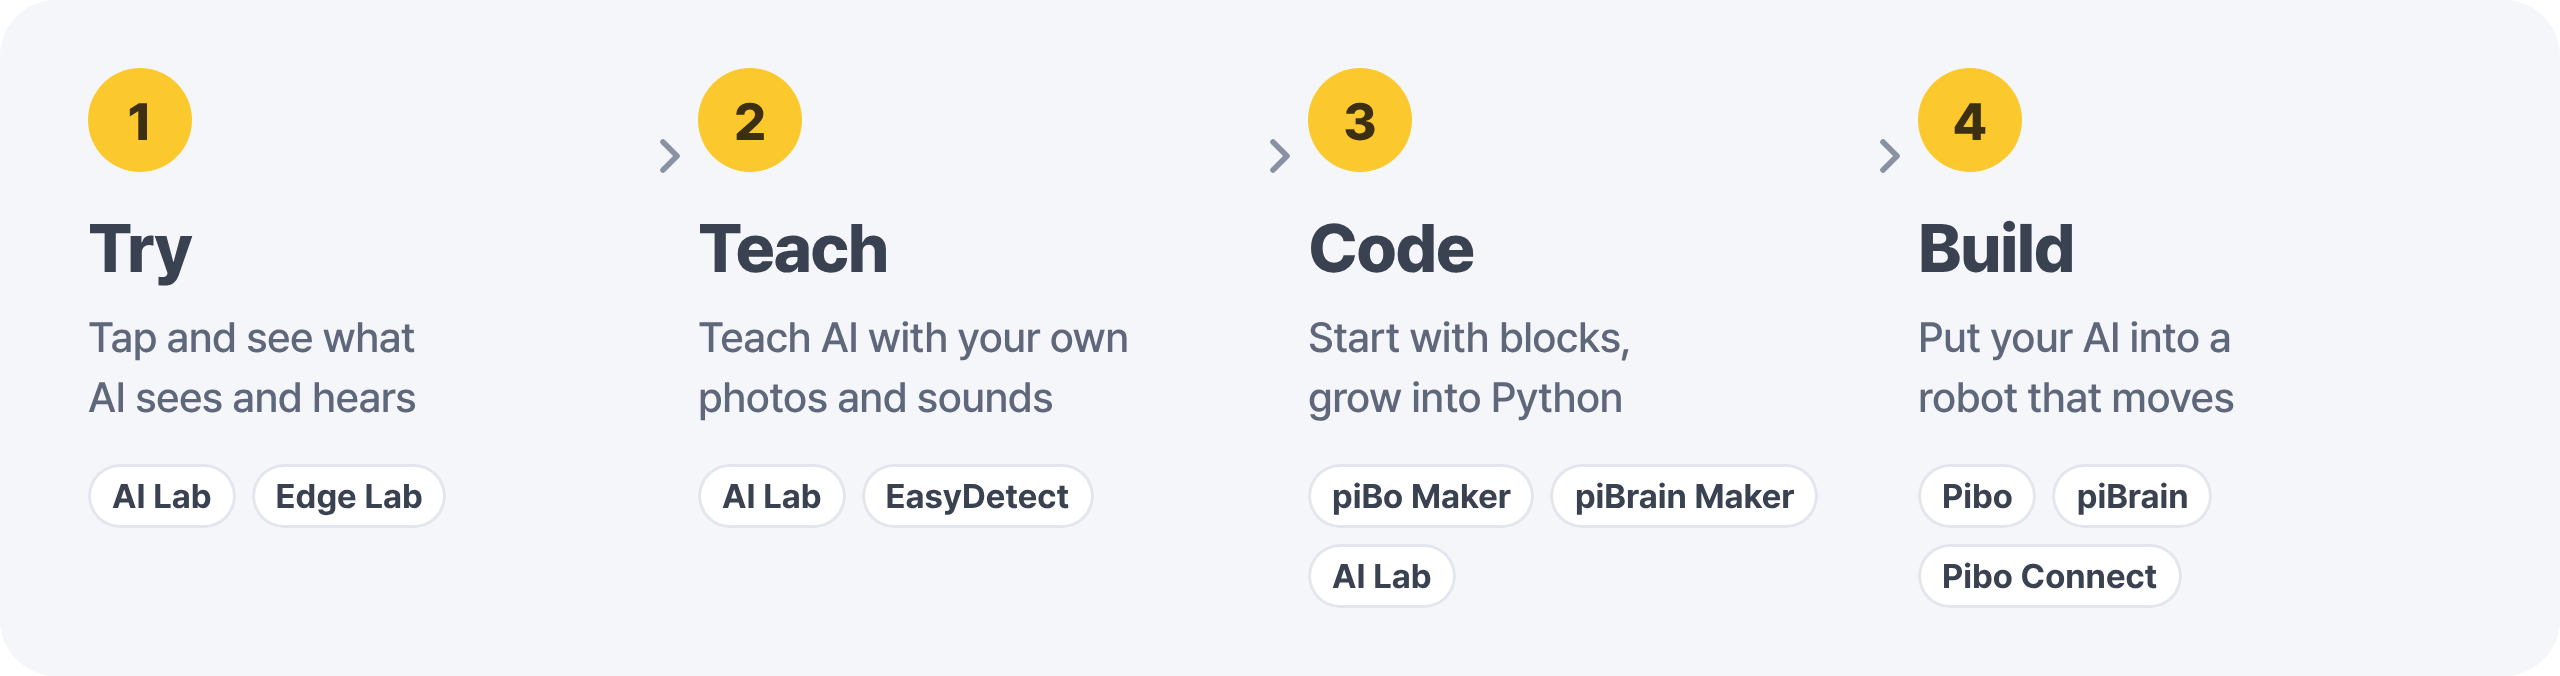
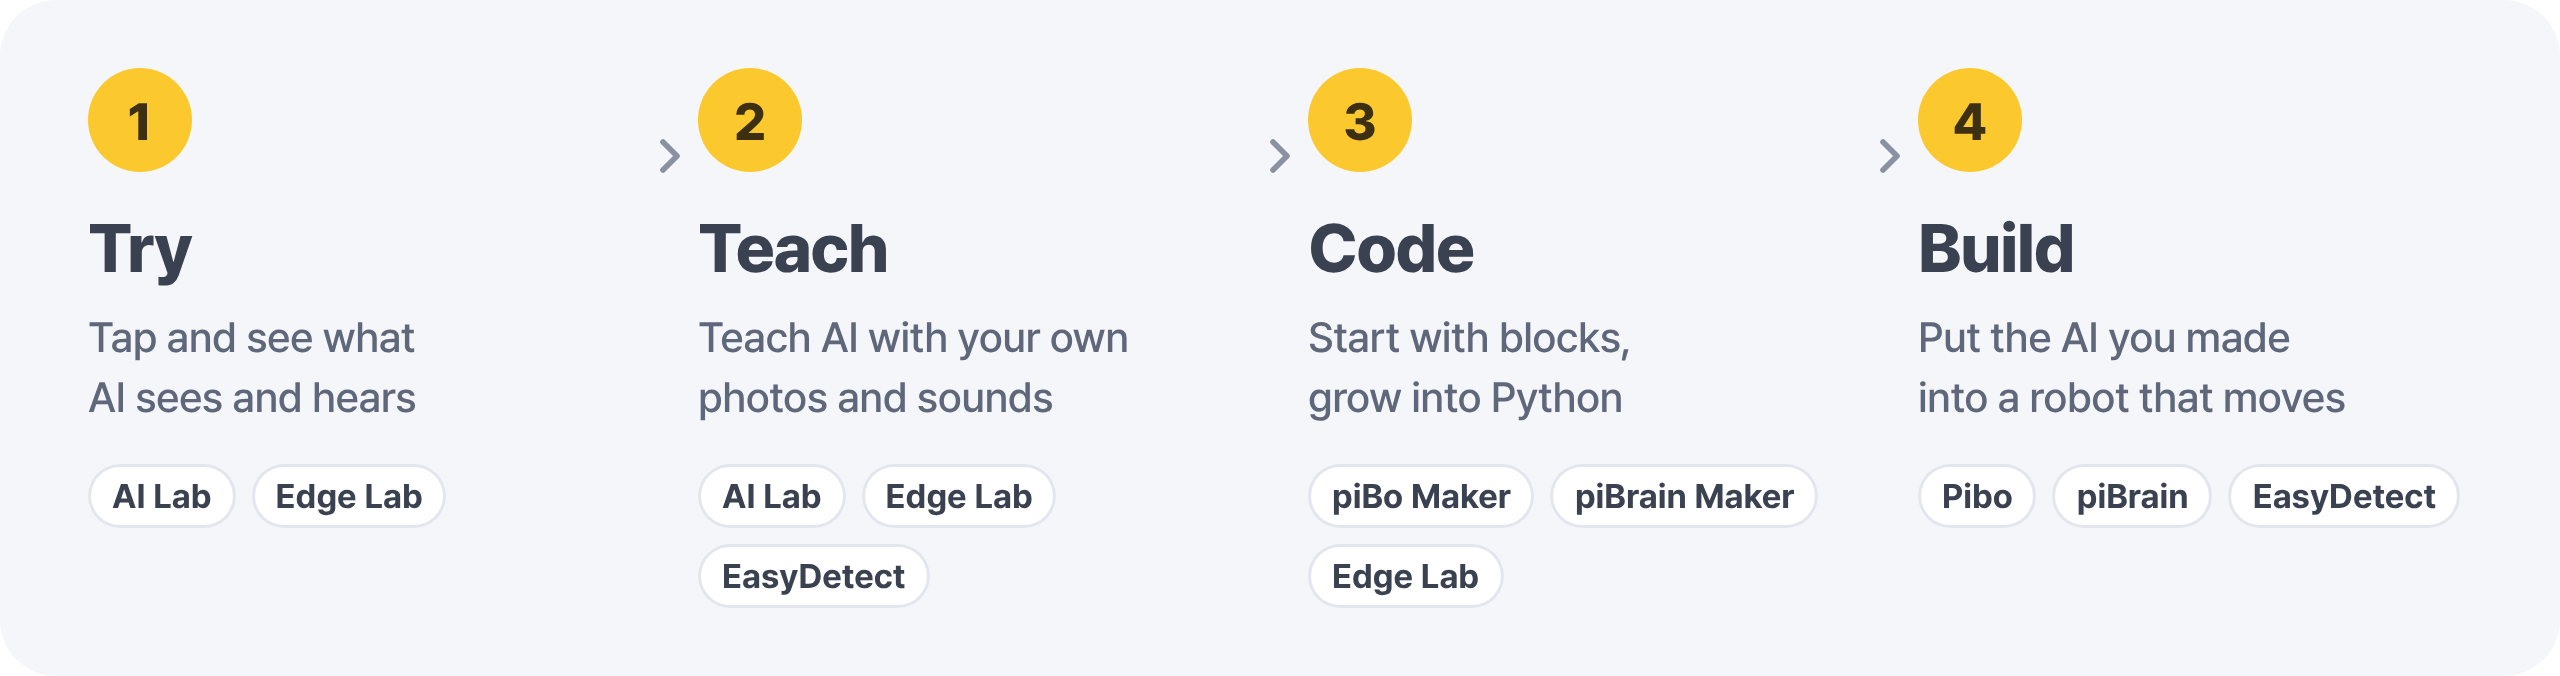
README: 제품을 준비물 기준으로 (로봇 / 노트북 / 웹 / 노트북→로봇)
- 라인업 이미지: 파이보·파이브레인, Edge Lab(노트북만), AI Lab(웹만), EasyDetect(사물 인식·분할 학습 → 로봇 적용)
- 제품별 섹션: 화면 + 설명·링크 나란히 (Edge Lab, AI Lab, EasyDetect)
- 학습 흐름 4단계에 쓰는 제품 다시 맞춤, 쓰지 않는 카드 이미지 삭제

Claude-Session: https://claude.ai/code/session_0189PbxufaKqbAwDGNT7CFCK

diff --git a/README.md b/README.md
@@ -20,13 +20,17 @@
 
 <img src="data/why-ko.png" width="100%" alt="인터넷이 끊겨도 수업은 계속 · 블록에서 파이썬까지 한 흐름 · 로봇이 없어도 오늘 시작 · 교실 전체를 한 번에">
 
+## 교실 준비물에 맞춰 고르세요
+
+<img src="data/lineup-ko.png" width="100%" alt="AI 로봇: 파이보·파이브레인 · 노트북만: Edge Lab · 웹 브라우저만: AI Lab · 노트북 → 로봇: EasyDetect">
+
 ## 이렇게 배웁니다
 
 <img src="data/flow-ko.png" width="100%" alt="1 체험 → 2 가르치기 → 3 코딩 → 4 로봇으로 완성">
 
-## AI 로봇
+## 파이보 · 파이브레인 — 로봇으로 배우는 AI
 
-움직이는 휴머노이드 **파이보**, 화면과 버튼이 달린 AI 보드 **파이브레인**. 수업에서 배운 AI를 로봇에 실어 직접 움직여 봅니다.
+움직이는 휴머노이드 **파이보**, 화면과 버튼이 달린 AI 보드 **파이브레인**. 수업에서 만든 AI를 로봇에 실어 직접 움직여 봅니다.
 
 <p align="center">
   <img src="data/card-pibo.png" width="49%" alt="파이보 (Pibo) — 움직이는 휴머노이드 AI 로봇">
@@ -45,40 +49,73 @@
   <img src="data/ide1.png" width="32%"> <img src="data/ide2.png" width="32%"> <img src="data/ide3.png" width="32%">
 </p>
 
-## AI 교육 소프트웨어
-
-로봇이 없어도, 인터넷이 없어도 AI를 배웁니다. 찍은 사진과 소리는 기기 밖으로 나가지 않습니다.
-
-<table>
-  <tr>
-    <td width="33%" valign="top" align="center">
-      <img src="data/sw-ailab.png" width="100%" alt="AI Lab"><br>
-      <a href="https://themakerrobot.github.io/ai-lab/"><b>바로 쓰기</b></a> · <a href="https://themakerrobot.github.io/ai-lab/guide/">가이드</a>
-    </td>
-    <td width="33%" valign="top" align="center">
-      <img src="data/sw-edgelab.png" width="100%" alt="Edge Lab"><br>
-      <a href="https://github.com/themakerrobot/edge-lab/releases/latest"><b>다운로드</b></a> · <a href="https://github.com/themakerrobot/edge-lab/releases">릴리스 노트</a> · <a href="https://github.com/themakerrobot/edge-lab/blob/main/docs/MANUAL.md">가이드</a>
-    </td>
-    <td width="33%" valign="top" align="center">
-      <img src="data/sw-easydetect.png" width="100%" alt="EasyDetect"><br>
-      <a href="https://github.com/themakerrobot/easydetect-lab/releases/latest"><b>다운로드</b></a> · <a href="https://github.com/themakerrobot/easydetect-lab/releases">릴리스 노트</a> · <a href="https://themakerrobot.github.io/easydetect-lab/">가이드</a> · <a href="https://themakerrobot.github.io/easydetect/try.html">웹 체험</a>
-    </td>
-  </tr>
-</table>
-
-## 로봇 수업을 돕는 소프트웨어
+### 로봇 수업을 돕는 소프트웨어
 
 수업 준비는 화면 속 파이보로, 수업 당일에는 교실의 로봇을 한 화면에서.
 
 <table>
   <tr>
     <td width="50%" valign="top" align="center">
-      <img src="data/sw-pibolab.png" width="100%" alt="Pibo Lab"><br>
+      <img src="data/sw-pibolab.png" width="100%" alt="pibolab"><br>
       <a href="https://pibo-lab.themaker.workers.dev/"><b>바로 쓰기</b></a>
     </td>
     <td width="50%" valign="top" align="center">
-      <img src="data/sw-piboconnect.png" width="100%" alt="Pibo Connect"><br>
+      <img src="data/sw-piboconnect.png" width="100%" alt="piboconnect"><br>
       <a href="https://github.com/themakerrobot/pibo-connect/releases/latest"><b>다운로드</b></a> · <a href="https://github.com/themakerrobot/pibo-connect/releases">릴리스 노트</a> · <a href="https://github.com/themakerrobot/pibo-connect#readme">가이드</a>
+    </td>
+  </tr>
+</table>
+
+## Edge Lab — 노트북 한 대로 하는 AI 수업
+
+<table>
+  <tr>
+    <td width="56%" valign="middle"><img src="data/feat-edgelab-ko.png" width="100%" alt="edgelab"></td>
+    <td width="44%" valign="middle">
+      <p>설치하고 나면 <b>인터넷 없이</b> 교실 노트북 안에서 모든 AI가 돌아갑니다.</p>
+      <ul>
+        <li><b>체험하기</b> — 얼굴·자세·손·사물·글자 등 AI 16가지</li>
+        <li><b>가르치기</b> — 내 사진과 소리로 직접 AI를 가르치기</li>
+        <li><b>코딩</b> — 블록과 파이썬으로 AI 부르기</li>
+        <li>Intel AI PC의 CPU·GPU·NPU로 실행, 계정·요금 없음</li>
+      </ul>
+      <p><a href="https://github.com/themakerrobot/edge-lab/releases/latest"><b>다운로드</b></a> · <a href="https://github.com/themakerrobot/edge-lab/releases">릴리스 노트</a> · <a href="https://github.com/themakerrobot/edge-lab/blob/main/docs/MANUAL.md">가이드</a></p>
+    </td>
+  </tr>
+</table>
+
+## AI Lab — 웹 브라우저만으로 하는 AI 교육
+
+<table>
+  <tr>
+    <td width="56%" valign="middle"><img src="data/feat-ailab-ko.png" width="100%" alt="ailab"></td>
+    <td width="44%" valign="middle">
+      <p><b>설치 없이</b> 링크만 열면 시작합니다. 사진과 소리는 기기 밖으로 나가지 않습니다.</p>
+      <ul>
+        <li><b>체험하기</b> — 손·얼굴·몸 인식, 소리 구분, 배경 바꾸기</li>
+        <li><b>가르치기</b> — 예시를 보여 주며 내 AI 만들기</li>
+        <li><b>스스로 배우기</b> — 점수로 배우는 청소 로봇·진화하는 생물</li>
+        <li><b>만들기</b> — 순서도 → 블록 → 파이썬으로 작품 완성</li>
+      </ul>
+      <p><a href="https://themakerrobot.github.io/ai-lab/"><b>바로 쓰기</b></a> · <a href="https://themakerrobot.github.io/ai-lab/guide/">가이드</a></p>
+    </td>
+  </tr>
+</table>
+
+## EasyDetect — 내 사진으로 만든 AI를 로봇에
+
+<table>
+  <tr>
+    <td width="56%" valign="middle"><img src="data/feat-easydetect-ko.png" width="100%" alt="easydetect"></td>
+    <td width="44%" valign="middle">
+      <p>노트북에서 <b>학습하고 시험한 뒤</b>, 파일 하나로 <b>파이보·파이브레인</b>에 옮겨 실행합니다.</p>
+      <ul>
+        <li><b>3가지 AI</b> — 사물 인식(상자) · 윤곽 분할 · 자세(키포인트)</li>
+        <li><b>학습</b> — 노트북 CPU로 사진 100~300장을 10~15분 안에</li>
+        <li><b>추론</b> — 사진·영상·웹캠으로 바로 시험</li>
+        <li><b>로봇에 적용</b> — ONNX 파일 하나로 파이보·파이브레인에서 실행</li>
+      </ul>
+      <p><a href="https://github.com/themakerrobot/easydetect-lab/releases/latest"><b>다운로드</b></a> · <a href="https://github.com/themakerrobot/easydetect-lab/releases">릴리스 노트</a> · <a href="https://themakerrobot.github.io/easydetect-lab/">가이드</a> · <a href="https://themakerrobot.github.io/easydetect/try.html">웹 체험</a></p>
     </td>
   </tr>
 </table>
@@ -93,8 +130,6 @@
 </p>
 
 ## 파이보·파이브레인 시작하기
-
-### 내 기기에 맞는 문서와 예제
 
 파이보·파이브레인은 **운영체제(OS) 버전마다 쓸 수 있는 기능과 블록이 다릅니다.** 기기와 같은 버전의 문서와 예제를 보세요.
 
@@ -125,11 +160,15 @@ OS 설치 이미지와 사용 가이드는 [공유 폴더](https://circulusworks
 
 <img src="data/why-en.png" width="100%" alt="Class goes on, even offline · Blocks to Python, one path · Start today, no robot needed · The whole class at once">
 
+### Pick what fits your classroom
+
+<img src="data/lineup-en.png" width="100%" alt="AI robots: Pibo · piBrain · A laptop: Edge Lab · A web browser: AI Lab · Laptop → robot: EasyDetect">
+
 ### How students learn
 
 <img src="data/flow-en.png" width="100%" alt="1 Try → 2 Teach → 3 Code → 4 Build">
 
-### AI robots
+### Pibo · piBrain — learn AI with robots
 
 **Pibo**, a humanoid robot that moves, and **piBrain**, an AI board with a screen and buttons. Students put the AI they made onto the robot and watch it move.
 
@@ -145,40 +184,73 @@ Pibo comes with **piBo Maker** and piBrain with **piBrain Maker**. Open it from 
   <img src="data/ide1.png" width="32%"> <img src="data/ide2.png" width="32%"> <img src="data/ide3.png" width="32%">
 </p>
 
-### AI education software
-
-Learn AI without a robot, even without the internet. Photos and sounds never leave the device.
-
-<table>
-  <tr>
-    <td width="33%" valign="top" align="center">
-      <img src="data/sw-ailab-en.png" width="100%" alt="AI Lab"><br>
-      <a href="https://themakerrobot.github.io/ai-lab/"><b>Open</b></a> · <a href="https://themakerrobot.github.io/ai-lab/guide/">Guide</a>
-    </td>
-    <td width="33%" valign="top" align="center">
-      <img src="data/sw-edgelab-en.png" width="100%" alt="Edge Lab"><br>
-      <a href="https://github.com/themakerrobot/edge-lab/releases/latest"><b>Download</b></a> · <a href="https://github.com/themakerrobot/edge-lab/releases">Release notes</a> · <a href="https://github.com/themakerrobot/edge-lab/blob/main/docs/MANUAL.md#edge-lab-user-guide">Guide</a>
-    </td>
-    <td width="33%" valign="top" align="center">
-      <img src="data/sw-easydetect-en.png" width="100%" alt="EasyDetect"><br>
-      <a href="https://github.com/themakerrobot/easydetect-lab/releases/latest"><b>Download</b></a> · <a href="https://github.com/themakerrobot/easydetect-lab/releases">Release notes</a> · <a href="https://themakerrobot.github.io/easydetect-lab/">Guide</a> · <a href="https://themakerrobot.github.io/easydetect/try.html">Try on the web</a>
-    </td>
-  </tr>
-</table>
-
-### Software for robot classes
+#### Software for robot classes
 
 Prepare lessons with an on-screen Pibo, then run the whole classroom of robots from one screen.
 
 <table>
   <tr>
     <td width="50%" valign="top" align="center">
-      <img src="data/sw-pibolab-en.png" width="100%" alt="Pibo Lab"><br>
+      <img src="data/sw-pibolab-en.png" width="100%" alt="pibolab"><br>
       <a href="https://pibo-lab.themaker.workers.dev/"><b>Open</b></a>
     </td>
     <td width="50%" valign="top" align="center">
-      <img src="data/sw-piboconnect-en.png" width="100%" alt="Pibo Connect"><br>
+      <img src="data/sw-piboconnect-en.png" width="100%" alt="piboconnect"><br>
       <a href="https://github.com/themakerrobot/pibo-connect/releases/latest"><b>Download</b></a> · <a href="https://github.com/themakerrobot/pibo-connect/releases">Release notes</a> · <a href="https://github.com/themakerrobot/pibo-connect#readme">Guide</a>
+    </td>
+  </tr>
+</table>
+
+### Edge Lab — an AI class on one laptop
+
+<table>
+  <tr>
+    <td width="56%" valign="middle"><img src="data/feat-edgelab-en.png" width="100%" alt="edgelab"></td>
+    <td width="44%" valign="middle">
+      <p>Once installed, every AI runs inside the classroom laptop — <b>no internet needed</b>.</p>
+      <ul>
+        <li><b>Try</b> — 16 kinds of AI: faces, poses, hands, objects, text and more</li>
+        <li><b>Teach</b> — teach the AI with your own photos and sounds</li>
+        <li><b>Code</b> — call the AI from blocks and Python</li>
+        <li>Runs on the CPU, GPU and NPU of an Intel AI PC. No account, no fees</li>
+      </ul>
+      <p><a href="https://github.com/themakerrobot/edge-lab/releases/latest"><b>Download</b></a> · <a href="https://github.com/themakerrobot/edge-lab/releases">Release notes</a> · <a href="https://github.com/themakerrobot/edge-lab/blob/main/docs/MANUAL.md#edge-lab-user-guide">Guide</a></p>
+    </td>
+  </tr>
+</table>
+
+### AI Lab — AI education in a web browser
+
+<table>
+  <tr>
+    <td width="56%" valign="middle"><img src="data/feat-ailab-en.png" width="100%" alt="ailab"></td>
+    <td width="44%" valign="middle">
+      <p><b>Nothing to install</b> — open the link and start. Photos and sounds never leave the device.</p>
+      <ul>
+        <li><b>Try</b> — hand, face and body tracking, sounds, background swap</li>
+        <li><b>Teach</b> — build your own AI by showing it examples</li>
+        <li><b>Learn by itself</b> — a cleaning robot and creatures that learn from scores</li>
+        <li><b>Build</b> — flowcharts → blocks → Python</li>
+      </ul>
+      <p><a href="https://themakerrobot.github.io/ai-lab/"><b>Open</b></a> · <a href="https://themakerrobot.github.io/ai-lab/guide/">Guide</a></p>
+    </td>
+  </tr>
+</table>
+
+### EasyDetect — your own AI, on the robot
+
+<table>
+  <tr>
+    <td width="56%" valign="middle"><img src="data/feat-easydetect-en.png" width="100%" alt="easydetect"></td>
+    <td width="44%" valign="middle">
+      <p><b>Train and test</b> on a laptop, then move the model to <b>Pibo or piBrain</b> as a single file.</p>
+      <ul>
+        <li><b>Three kinds of AI</b> — object detection, segmentation, pose (keypoints)</li>
+        <li><b>Train</b> — 100–300 photos in 10–15 minutes on a laptop CPU</li>
+        <li><b>Run</b> — test on photos, videos or a webcam right away</li>
+        <li><b>On the robot</b> — one ONNX file runs on Pibo and piBrain</li>
+      </ul>
+      <p><a href="https://github.com/themakerrobot/easydetect-lab/releases/latest"><b>Download</b></a> · <a href="https://github.com/themakerrobot/easydetect-lab/releases">Release notes</a> · <a href="https://themakerrobot.github.io/easydetect-lab/">Guide</a> · <a href="https://themakerrobot.github.io/easydetect/try.html">Try on the web</a></p>
     </td>
   </tr>
 </table>
@@ -188,8 +260,6 @@ Prepare lessons with an on-screen Pibo, then run the whole classroom of robots f
 <a href="https://docs.google.com/forms/d/e/1FAIpQLSdU2oCmdhZ0bHcyK7MYdUHiultM6w9UE3cIt_KLppp-9Ug-ag/viewform"><img src="data/cta-en.png" width="100%" alt="Bring THE MAKER to your classroom — Request a demo"></a>
 
 ### Getting started with Pibo and piBrain
-
-#### Docs and examples for your device
 
 Features and blocks **differ by OS version**, so use the docs for the version on your device.
 
